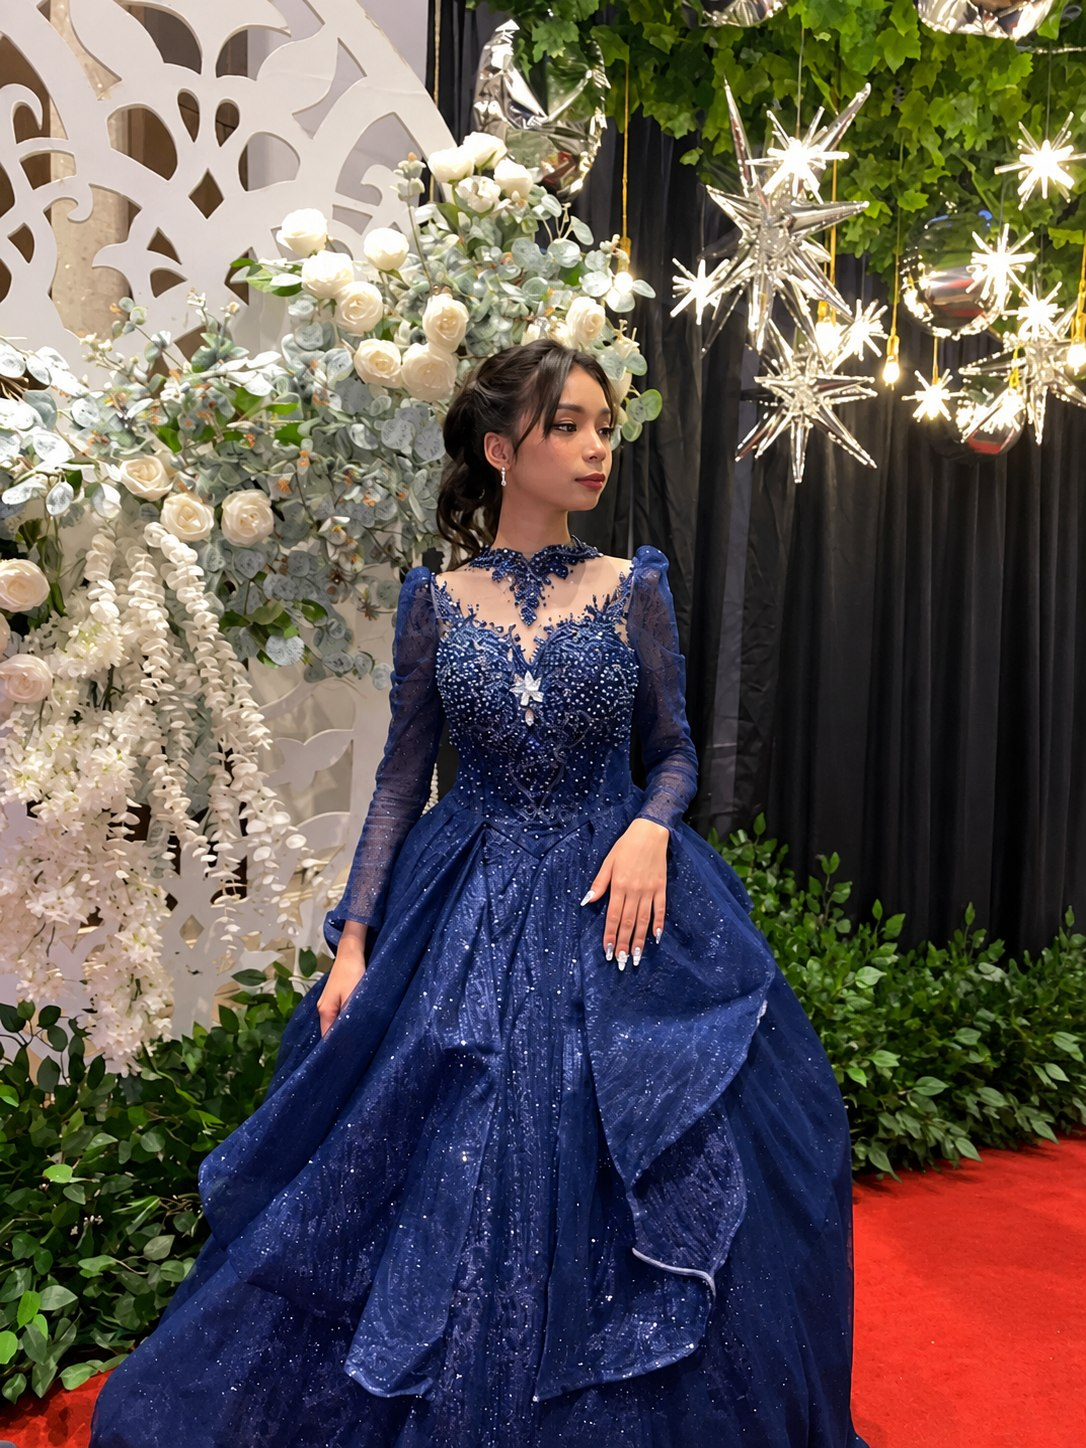
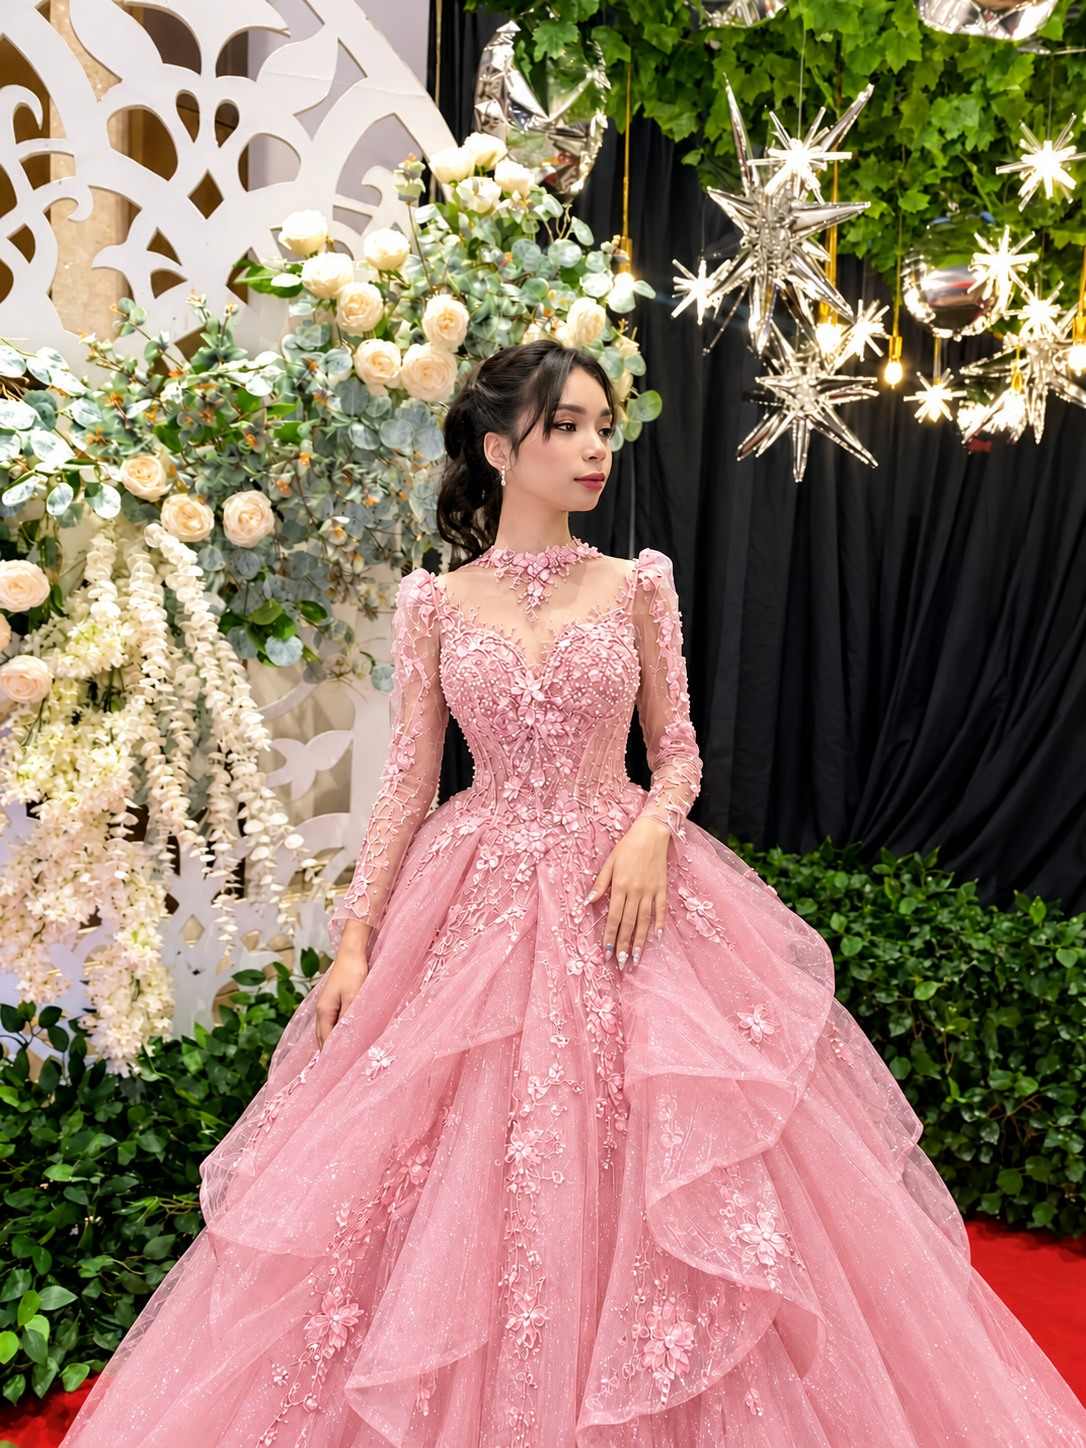
Replace registration page photo

diff --git a/index.html b/index.html
@@ -96,7 +96,7 @@ if (invitationLinkOpening) {
 <section class="step-transition block" id="step-registration">
 <div class="registration-layout">
 <figure class="registration-portrait">
-<img alt="Kylie in her blue debut gown among flowers" decoding="async" fetchpriority="high" src="./photos/registration-portrait.jpg"/>
+<img alt="Kylie in her pink debut gown among flowers" decoding="async" fetchpriority="high" src="./photos/registration-portrait.jpg"/>
 <div aria-hidden="true" class="registration-portrait-wash"></div>
 <figcaption class="registration-portrait-caption">
 <span class="registration-portrait-label">A new chapter</span>
